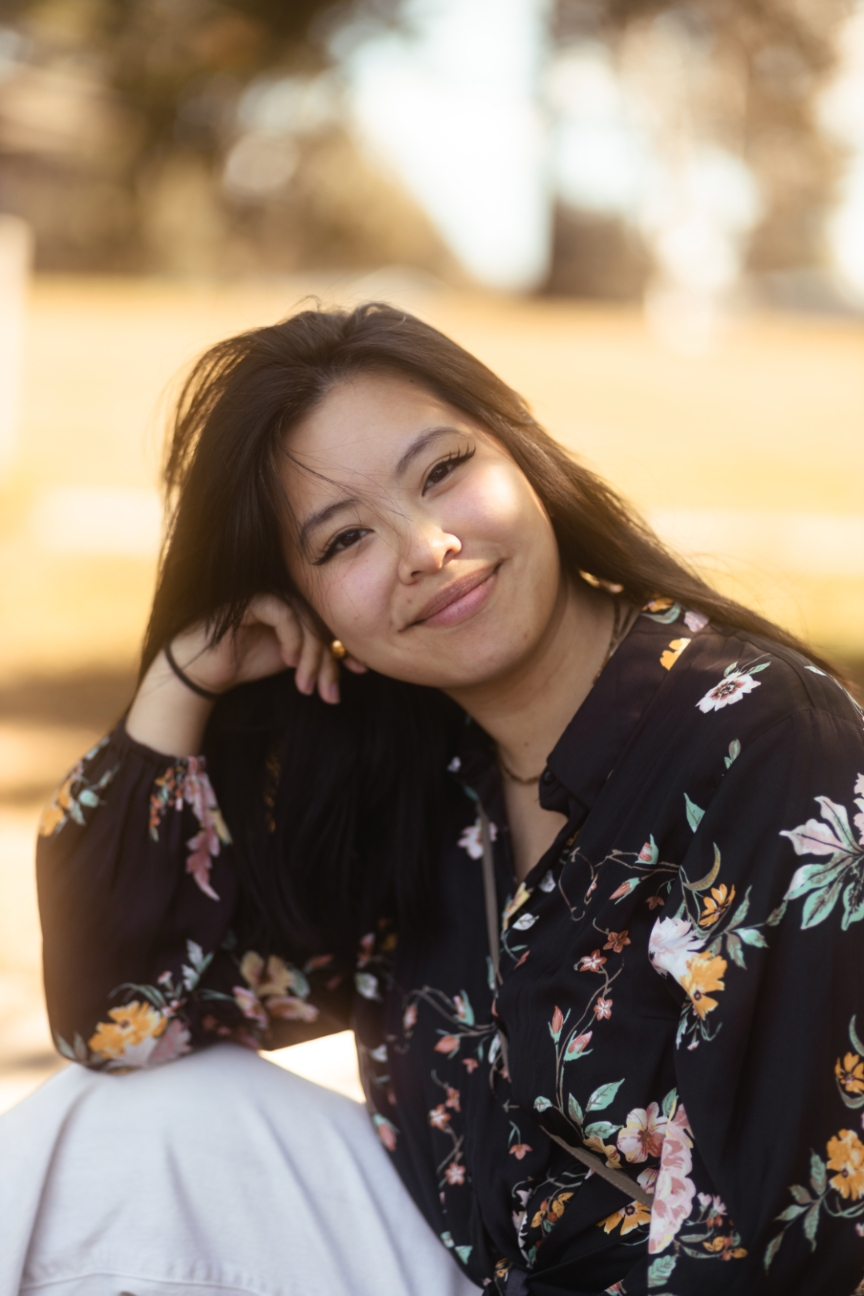
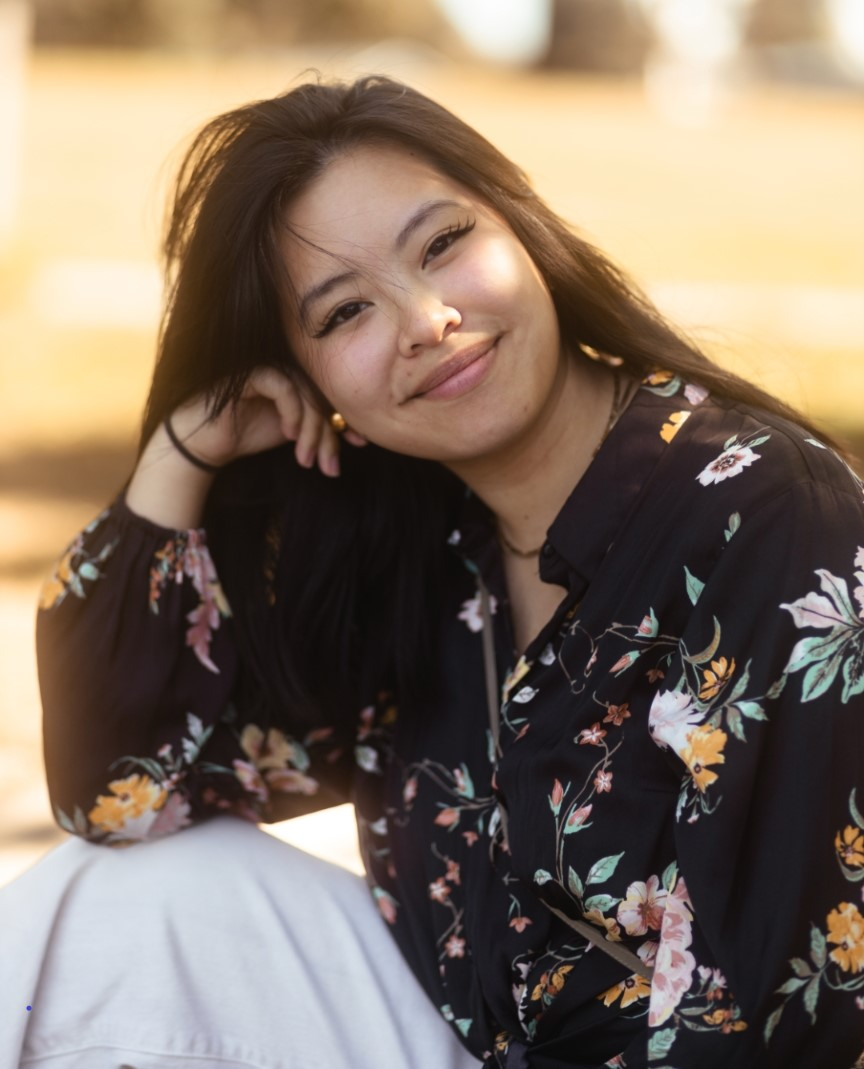
finished about page, need to edit paragraph

diff --git a/about.html b/about.html
@@ -1,0 +1,34 @@
+<!DOCTYPE html>
+<html lang="en">
+<head>
+    <meta charset="UTF-8">
+    <title>Work and Leadership Experience</title>
+    <meta name="description" content="Work and Women in Computer Science leadership experience page on Eva Howard's portfolio">
+    <meta name="author" content="Eva Howard">
+    <meta name="keywords" content="Eva Howard, Portfolio, HTML, CSS, Projects, Skills, UWT, University of Washington,
+                                     CS, Java, Python, JavaScript, contact, LinkedIn, Gmail, Github, Git, eva7960">
+    <link rel="stylesheet" href="styles.css">
+</head>
+<body>
+<nav class="navbar">
+    <a href="index.html">Home</a>
+    <a href="about.html">About Me</a>
+    <a href="experience.html">Experience</a>
+    <a href="projects.html">Projects</a>
+    <a href="contact.html">Contact</a>
+</nav>
+<div class="wrapText">
+    <img src="face2.jpeg" alt="Photo of Eva Howard smiling at the camera." width="330" height="400">
+    <h1>Hello I'm Eva!</h1>
+    <p>
+        I served as President of the Women in Computing Science (WiCS) organization, where I rebuilt and led a fun, inclusive,
+        and academic club that I wished had existed when I was a freshman. With no prior leadership experience, I reestablished
+        club operations by updating and reviewing past documentation, coordinating with advisors, organizing campus involvement events,
+        and working with my officer team to plan engaging quarterly schedules. We hosted a wide range of social and creative events
+        and later expanded into academically focused programming through collaborations with other organizations. This experience
+        strengthened my leadership, communicative and event planning skills and helped me build lasting connections.<br>
+        Link to <a href="https://www.instagram.com/wicsatuwt/?hl=en">WiCS Instagram Page</a>
+    </p>
+</div>
+</body>
+</html>

diff --git a/experience.html b/experience.html
@@ -18,7 +18,7 @@
     <a href="contact.html">Contact</a>
     </nav>
     <div class="wrapText">
-        <img src="wics.jpg" alt="Collage of Women in Computing Science activities and meetings">
+        <img src="wics.jpg" alt="Collage of Women in Computing Science activities and meetings" width="430" height="500">
         <h1>Women in Computing Science (WiCS)</h1>
         <p>
             I served as President of the Women in Computing Science (WiCS) organization, where I rebuilt and led a fun, inclusive,

diff --git a/styles.css b/styles.css
@@ -108,10 +108,10 @@ p {
     margin-top: 50px;
 }
 .wrapText img {
+    border-radius: 50px;
+    box-shadow: 5px 5px 10px rgba(0, 0, 0, 0.5); /*drop shadow*/
     float: left;
-    margin: 0px 16px 12px 250px; /* space between text and image */
-    width: 460px;
-    height: 500px;
+    margin: 0px 25px 12px 250px; /* space between text and image */
 }
 .wrapText p {
     margin-right: 300px;
